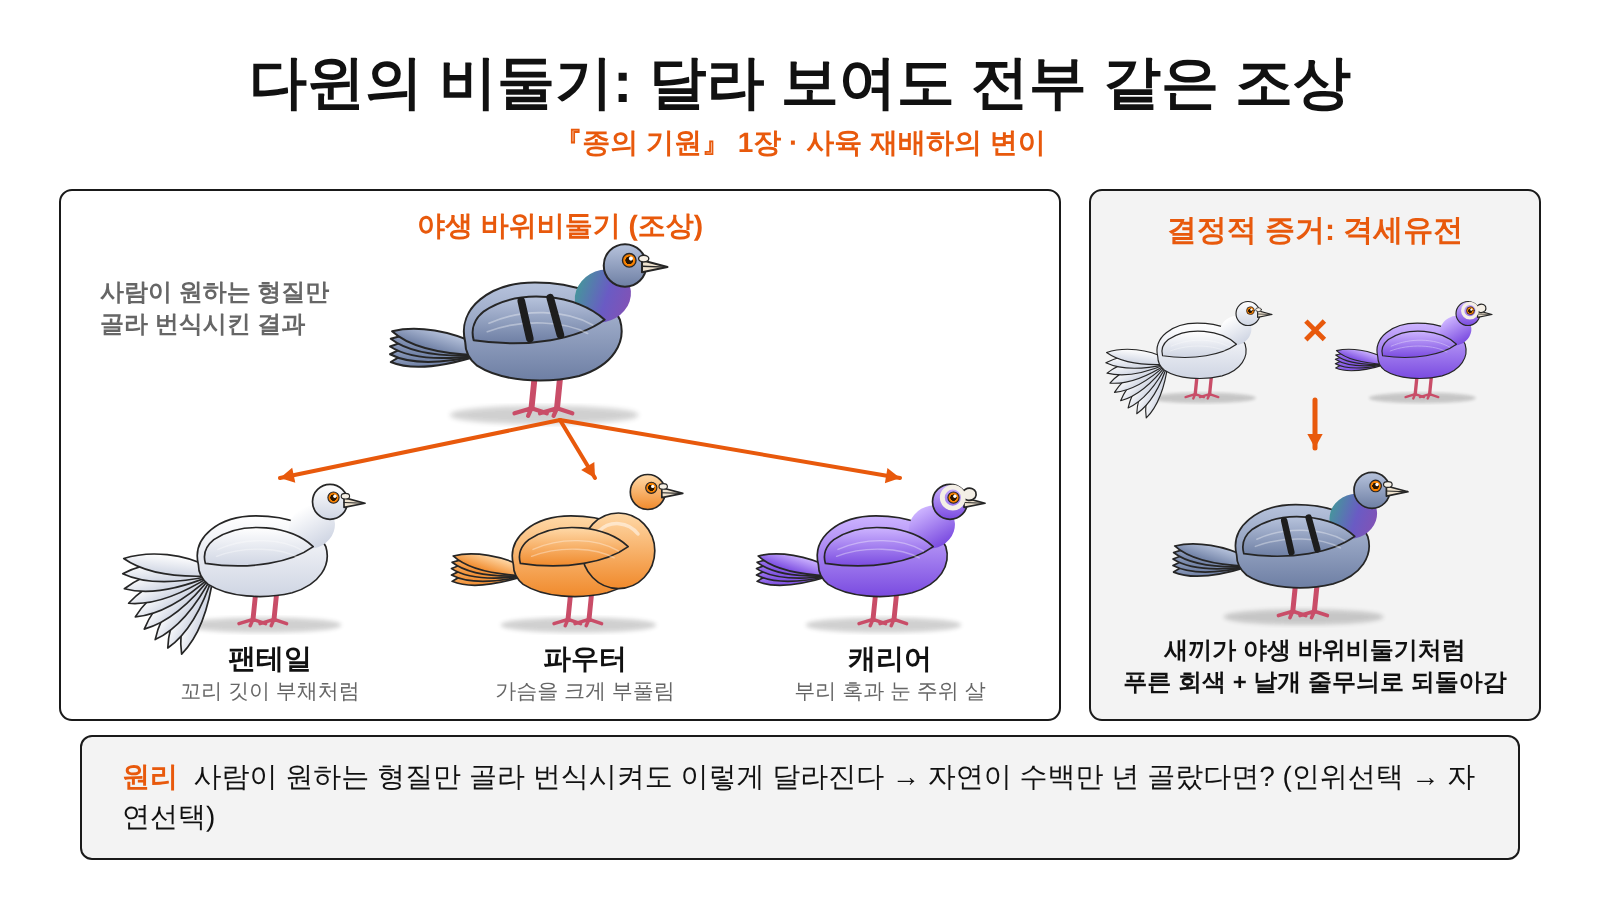
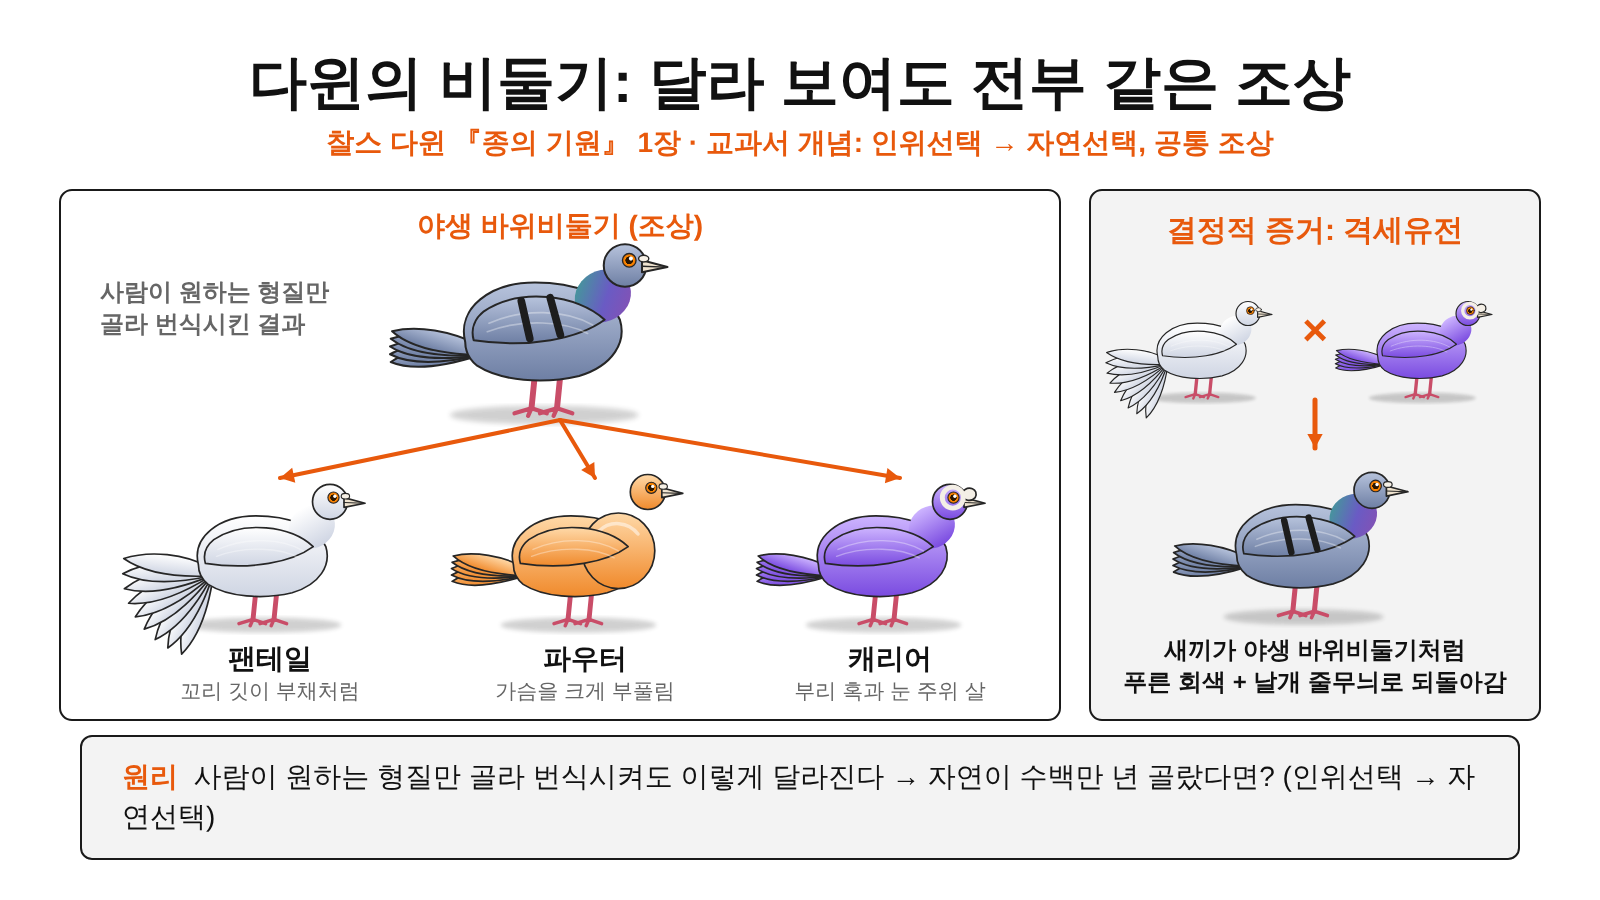
Add cover and summary pages, fix subtitles for rubric fit
Claude-Session: https://claude.ai/code/session_01Xw9PThPVF62AYKJZUeNbfr

Changed region(s): [[0.1875, 0.1244, 0.8125, 0.1867]]

diff --git a/deck_out/origin_images_hq/source_hq.html b/deck_out/origin_images_hq/source_hq.html
@@ -10,16 +10,18 @@ body{background:#888;font-family:"Malgun Gothic","Apple SD Gothic Neo","Noto San
 svg.sc{position:absolute;left:0;top:0}
 </style></head><body>
 <div id="defs"></div>
-<div class="img" id="i1"><div class="ttl">다윈의 비둘기: 달라 보여도 전부 같은 조상</div><div class="sub">『종의 기원』 1장 · 사육 재배하의 변이</div><svg class="sc" id="s1" width="1600" height="900"></svg>
+<div class="img" id="i0"><div class="ttl" style="top:40px;font-size:72px">『종의 기원』</div><div class="sub" style="top:132px">찰스 다윈 · 1859년 출간 · 진화와 생물다양성 연계 도서 소개</div><svg class="sc" id="s0" width="1600" height="900"></svg></div>
+<div class="img" id="i1"><div class="ttl">다윈의 비둘기: 달라 보여도 전부 같은 조상</div><div class="sub">찰스 다윈 『종의 기원』 1장 · 교과서 개념: 인위선택 → 자연선택, 공통 조상</div><svg class="sc" id="s1" width="1600" height="900"></svg>
 <div class="pr"><b>원리</b> &nbsp;사람이 원하는 형질만 골라 번식시켜도 이렇게 달라진다 → 자연이 수백만 년 골랐다면? (인위선택 → 자연선택)</div></div>
-<div class="img" id="i2"><div class="ttl">코끼리 한 쌍이 740년 뒤 1,900만 마리?</div><div class="sub">『종의 기원』 3장 · 생존 투쟁</div><svg class="sc" id="s2" width="1600" height="900"></svg>
+<div class="img" id="i2"><div class="ttl">코끼리 한 쌍이 740년 뒤 1,900만 마리?</div><div class="sub">찰스 다윈 『종의 기원』 3장 · 교과서 개념: 자연선택 (과잉 생산과 생존 경쟁)</div><svg class="sc" id="s2" width="1600" height="900"></svg>
 <div class="pr"><b>원리</b> &nbsp;태어나는 수가 살아남는 수보다 훨씬 많다 → 모든 생물은 경쟁하고 대부분은 살아남지 못한다</div></div>
-<div class="img" id="i3"><div class="ttl">클로버가 잘 자라려면 고양이가 필요하다?</div><div class="sub">『종의 기원』 3장 · 생물 사이의 얽힌 관계</div><svg class="sc" id="s3" width="1600" height="900"></svg>
-<div class="pr"><b>원리</b> &nbsp;생물은 서로 복잡하게 얽혀 있다 → 한 종이 바뀌면 생태계 전체가 영향을 받는다 (생물다양성)</div></div>
-<div class="img" id="i4"><div class="ttl">눈은 한 번에 생기지 않았다</div><div class="sub">『종의 기원』 6장 · 다윈이 스스로 인정한 난제</div><svg class="sc" id="s4" width="1600" height="900"></svg>
+<div class="img" id="i3"><div class="ttl">클로버가 잘 자라려면 고양이가 필요하다?</div><div class="sub">찰스 다윈 『종의 기원』 3장 · 교과서 개념: 생태계 구성 요소 사이의 상호작용</div><svg class="sc" id="s3" width="1600" height="900"></svg>
+<div class="pr"><b>원리</b> &nbsp;생물은 먹이 관계로 얽혀 있다 → 한 종의 변화가 다른 종에 영향을 준다 (생태계 평형)</div></div>
+<div class="img" id="i4"><div class="ttl">눈은 한 번에 생기지 않았다</div><div class="sub">찰스 다윈 『종의 기원』 6장 · 교과서 개념: 진화는 작은 변화가 쌓인 과정</div><svg class="sc" id="s4" width="1600" height="900"></svg>
 <div class="pr"><b>원리</b> &nbsp;다윈은 눈이 선택으로 생겼다는 말이 "터무니없어 보인다"고 고백했다. 하지만 작은 개선이 하나씩 쌓이면 정교한 기관도 만들어진다.</div></div>
-<div class="img" id="i5"><div class="ttl">섬에는 왜 개구리가 없을까?</div><div class="sub">『종의 기원』 12~13장 · 생물의 지리적 분포</div><svg class="sc" id="s5" width="1600" height="900"></svg>
+<div class="img" id="i5"><div class="ttl">섬에는 왜 개구리가 없을까?</div><div class="sub">찰스 다윈 『종의 기원』 12~13장 · 교과서 개념: 생물다양성과 분포</div><svg class="sc" id="s5" width="1600" height="900"></svg>
 <div class="pr"><b>원리</b> &nbsp;섬에는 바다를 건너올 수 있었던 생물만 도착했다 → 생물의 분포는 이동 능력과 환경, 그리고 공통 조상으로 설명된다</div></div>
+<div class="img" id="i6"><div class="ttl" style="font-size:52px;top:34px">종의 기원 한눈에 정리</div><div class="sub" style="top:108px">변이 → 생존 경쟁 → 자연선택 → 진화, 그리고 그 증거들</div><svg class="sc" id="s6" width="1600" height="900"></svg></div>
 <script src="icons.js"></script>
 <script>
 document.getElementById('defs').innerHTML=DEFS;
@@ -83,4 +85,50 @@ const arrow=(x1,y1,x2,y2,c=OR,w=5)=>{const a=Math.atan2(y2-y1,x2-x1),h=16;return
   s+=`<circle cx="${x+135}" cy="460" r="22" fill="${c.ok?OR:'#d63a63'}"/>`+T(x+135,469,c.ok?'✓':'✕',{s:28,c:'#fff',w:800});
   s+=T(x,640,c.t,{s:28,w:800})+T(x,668,c.d,{s:20,c:'#666',w:500})+T(x,692,c.d2,{s:20,c:'#666',w:500})});
  $('s5').innerHTML=s})();
+
+// 0 표지
+(function(){let s='';
+ // 생명의 나무
+ let seed=7;const rnd=()=>{seed=(seed*9301+49297)%233280;return seed/233280};
+ const br=(x,y,len,ang,d)=>{if(d===0){s+=`<circle cx="${x}" cy="${y}" r="${9+rnd()*4}" fill="${['#E8590C','#1a1a1a','#8a8a8a','#F28C28'][Math.floor(rnd()*4)]}"/>`;return}
+  const x2=x+len*Math.sin(ang),y2=y-len*Math.cos(ang);s+=`<line x1="${x}" y1="${y}" x2="${x2}" y2="${y2}" stroke="#1a1a1a" stroke-width="${d*2.2}" stroke-linecap="round"/>`;
+  br(x2,y2,len*(0.74+rnd()*0.08),ang-0.34-rnd()*0.16,d-1);br(x2,y2,len*(0.74+rnd()*0.08),ang+0.34+rnd()*0.16,d-1);};
+ s+=R(60,200,640,620,'#fff');br(380,770,150,0,6);
+ s+=T(380,800,'생명의 나무: 하나의 조상에서 갈라진 생물들',{s:22,c:'#666',w:600});
+ // 오른쪽
+ s+=R(740,200,800,620,'#F3F3F3');
+ s+=T(790,250,'이 책을 고른 이유 (과학 학습 관점)',{s:30,c:OR,w:800,a:'start'});
+ const why=[['교과서는 결론만, 책은 증거로','진화·자연선택 개념이 비둘기 사육, 코끼리 계산, 실험 같은 관찰과 증거에서 어떻게 나왔는지 볼 수 있다'],['개념을 사례로 심화','변이 · 생존 경쟁 · 자연선택 · 진화를 실제 생물 예시로 이해한다'],['지금 문제와 연결','항생제 내성균처럼 오늘 일어나는 자연선택을 설명할 수 있다']];
+ why.forEach((w,i)=>{const y=290+i*118;s+=`<circle cx="810" cy="${y+22}" r="22" fill="${OR}"/>`+T(810,y+31,String(i+1),{s:26,c:'#fff',w:800})+T(850,y+22,w[0],{s:27,w:800,a:'start'});
+  const words=w[1];const half=Math.ceil(words.length/2);let cut=words.lastIndexOf(' ',half+6);if(cut<0)cut=half;
+  s+=(words.length>40?T(850,y+56,words.slice(0,cut),{s:22,c:'#555',w:500,a:'start'})+T(850,y+84,words.slice(cut+1),{s:22,c:'#555',w:500,a:'start'}):T(850,y+56,words,{s:22,c:'#555',w:500,a:'start'}))});
+ s+=T(790,660,'관련 교과서 개념',{s:26,c:OR,w:800,a:'start'});
+ ['자연선택','진화','생물다양성','생태계 평형'].forEach((c,i)=>{const w=[150,110,150,160][i];const x=790+[0,170,300,470][i];s+=`<rect x="${x}" y="680" width="${w}" height="46" rx="23" fill="#fff" stroke="#1a1a1a" stroke-width="2"/>`+T(x+w/2,711,c,{s:23,w:700})});
+ s+=T(790,780,'발표자: (이름)',{s:24,c:'#666',w:600,a:'start'});
+ $('s0').innerHTML=s})();
+
+// 6 총정리
+(function(){let s='';
+ const steps=[['변이','같은 종 안에도 형질이 조금씩 다르다'],['생존 경쟁','태어나는 수가 살아남는 수보다 많다'],['자연선택','유리한 형질이 더 많이 살아남는다'],['진화','유리한 형질이 쌓여 집단이 변한다']];
+ steps.forEach((e,i)=>{const x=60+i*381;s+=R(x,160,340,100,i===3?OR:'#fff',12);
+  s+=T(x+170,200,`${i+1}. ${e[0]}`,{s:30,w:800,c:i===3?'#fff':OR})+T(x+170,236,e[1],{s:19,c:i===3?'#fff':'#444',w:500});
+  if(i<3)s+=arrow(x+346,210,x+375,210,'#1a1a1a',4)});
+ // 표
+ s+=R(60,285,950,345,'#fff');
+ s+=T(80,320,'책 속 예시',{s:22,c:OR,w:800,a:'start'})+T(345,320,'알 수 있는 원리',{s:22,c:OR,w:800,a:'start'})+T(790,320,'교과서 개념',{s:22,c:OR,w:800,a:'start'});
+ const rows=[['비둘기 품종','사람이 고른 형질이 쌓여 품종이 달라짐','인위선택, 공통 조상',(x,y)=>pigeon(x,y,.2,{v:'rock'})],['코끼리 740년','태어나는 수 > 살아남는 수 → 경쟁','자연선택, 경쟁',(x,y)=>elephant(x,y,.15)],['클로버와 고양이','먹이 관계로 얽혀 서로 영향을 줌','생태계 상호작용',(x,y)=>cat(x,y,.27)],['눈의 5단계','작은 개선이 쌓여 복잡한 기관이 됨','진화(점진적 변화)',(x,y)=>`<g transform="translate(${x},${y}) scale(.25)">${eyeStage(4,0,0)}</g>`],['섬의 생물','건너올 수 있는 생물만 도착','생물다양성과 분포',(x,y)=>bat(x,y,.2)]];
+ rows.forEach((r,i)=>{const y=335+i*58;s+=`<line x1="75" y1="${y-6}" x2="995" y2="${y-6}" stroke="#ddd" stroke-width="2"/>`;
+  s+=r[3](118,y+28)+T(160,y+34,r[0],{s:21,w:800,a:'start'})+T(345,y+34,r[1],{s:19,c:'#333',w:500,a:'start'})+T(790,y+34,r[2],{s:18,c:'#111',w:700,a:'start'})});
+ // 오늘의 연결
+ s+=R(1030,285,510,345,'#F3F3F3');
+ s+=T(1285,322,'지금도 진행 중: 항생제 내성균',{s:25,c:OR,w:800});
+ ['세균 집단에 변이가 있다','항생제가 약한 균을 없앤다','내성균이 살아남아 증식한다','내성 집단으로 변한다'].forEach((t,i)=>{const y=345+i*54;s+=R(1065,y,440,40,'#fff',10)+T(1285,y+28,t,{s:21,w:700});if(i<3)s+=T(1285,y+53,'▼',{s:14,c:OR,w:800})});
+ s+=T(1285,610,'살충제 내성 해충, 서식지 파괴도 새로운 선택 압력',{s:17,c:'#555',w:500});
+ // 하단
+ s+=R(60,650,740,215,'#fff')+R(820,650,720,215,'#F3F3F3');
+ s+=T(85,685,'새롭게 알게 된 점',{s:25,c:OR,w:800,a:'start'});
+ ['진화는 개체가 노력해서 바뀌는 게 아니라,','집단 속 변이 중 환경에 유리한 것이 선택되어','쌓이는 과정이다. 다윈은 비둘기 사육과 계산,','실험으로 설득하고 약점도 스스로 인정했다.'].forEach((t,i)=>s+=T(85,722+i*34,t,{s:22,c:'#222',w:500,a:'start'}));
+ s+=T(845,685,'친구들에게 추천하는 이유',{s:25,c:OR,w:800,a:'start'});
+ ['① 교과서 진화 개념이 어떤 증거에서 나왔는지 알 수 있다','② 관찰 → 가설 → 증거 → 반론 대응의 과학적 사고를 배운다','③ 항생제 내성 같은 오늘의 문제를 이해하는 데 쓸 수 있다'].forEach((t,i)=>s+=T(845,726+i*44,t,{s:22,c:'#222',w:500,a:'start'}));
+ $('s6').innerHTML=s})();
 </script></body></html>
